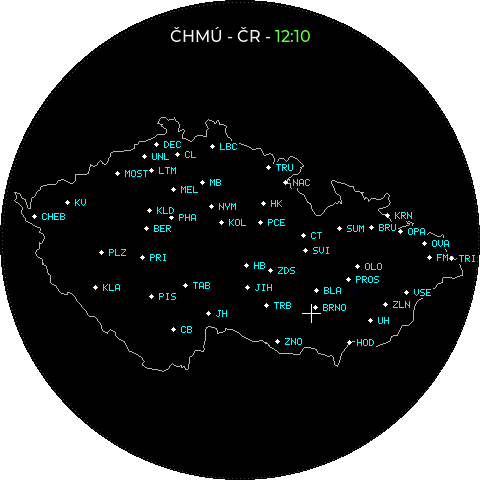
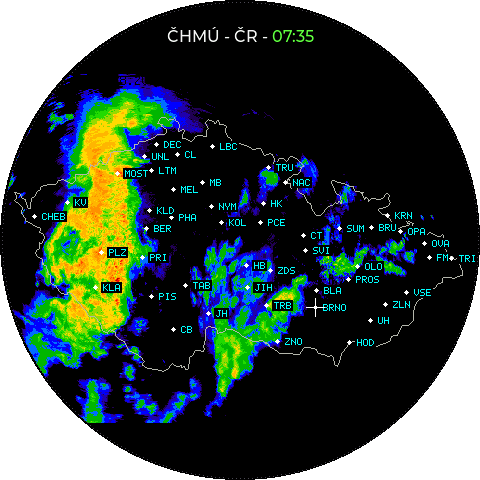
Show rainy radar in day and night galleries

diff --git a/docs/index.html b/docs/index.html
@@ -6,9 +6,9 @@
     <meta name="theme-color" content="#05090d">
     <meta name="description" content="Waveshare Hodiny – chytré hodiny s Open-Meteo, TMEP.cz, Home Assistantem a meteoradarem ČHMÚ pro kulatý dotykový displej.">
     <title>Waveshare Hodiny – Chytré hodiny podle vás</title>
-    <link rel="stylesheet" href="styles.css?v=4f3e89369941">
+    <link rel="stylesheet" href="styles.css?v=a297a80aeb8f">
     <script type="module" src="vendor/esp-web-tools/install-button.js"></script>
-    <script type="module" src="app.js?v=b3c39af86777"></script>
+    <script type="module" src="app.js?v=b482845fd5ca"></script>
   </head>
   <body>
     <header class="site-header">
@@ -95,11 +95,32 @@
             <figcaption>Digitální ciferník · denní režim</figcaption>
           </figure>
           <figure>
-            <button class="image-zoom" type="button" data-full="screenshots/dashboard-radar.png" aria-label="Zobrazit meteoradar ČHMÚ v plné velikosti">
-              <img src="screenshots/dashboard-radar.png" alt="Meteoradar ČHMÚ na displeji Waveshare Hodiny">
+            <button class="image-zoom" type="button" data-full="screenshots/dashboard-radar.png" aria-label="Zobrazit denní meteoradar ČHMÚ v plné velikosti">
+              <img src="screenshots/dashboard-radar.png" alt="Meteoradar ČHMÚ na displeji Waveshare Hodiny v denním režimu">
               <span>Zvětšit</span>
             </button>
-            <figcaption>Meteoradar ČHMÚ · celá Česká republika</figcaption>
+            <figcaption>Meteoradar ČHMÚ · denní režim</figcaption>
+          </figure>
+          <figure class="night-preview">
+            <button class="image-zoom" type="button" data-full="screenshots/dashboard-analog-night.png" aria-label="Zobrazit noční analogový ciferník v plné velikosti">
+              <img src="screenshots/dashboard-analog-night.png" alt="Analogový ciferník Waveshare Hodiny v červeném nočním režimu">
+              <span>Zvětšit</span>
+            </button>
+            <figcaption>Analogový ciferník · noční režim</figcaption>
+          </figure>
+          <figure class="night-preview">
+            <button class="image-zoom" type="button" data-full="screenshots/dashboard-night.png" aria-label="Zobrazit noční digitální ciferník v plné velikosti">
+              <img src="screenshots/dashboard-night.png" alt="Digitální ciferník Waveshare Hodiny v červeném nočním režimu">
+              <span>Zvětšit</span>
+            </button>
+            <figcaption>Digitální ciferník · noční režim</figcaption>
+          </figure>
+          <figure class="night-preview">
+            <button class="image-zoom" type="button" data-full="screenshots/dashboard-radar-night.png" aria-label="Zobrazit noční meteoradar ČHMÚ v plné velikosti">
+              <img src="screenshots/dashboard-radar-night.png" alt="Meteoradar ČHMÚ na displeji Waveshare Hodiny v červeném nočním režimu">
+              <span>Zvětšit</span>
+            </button>
+            <figcaption>Meteoradar ČHMÚ · noční režim</figcaption>
           </figure>
         </div>
       </section>

diff --git a/docs/app.js b/docs/app.js
@@ -33,9 +33,19 @@ const translations = {
   "Zobrazit denní digitální ciferník v plné velikosti": "Show the day digital clock full size",
   "Digitální ciferník Waveshare Hodiny v denním režimu": "Waveshare Hodiny digital clock in day mode",
   "Digitální ciferník · denní režim": "Digital clock · day mode",
-  "Zobrazit meteoradar ČHMÚ v plné velikosti": "Show the Czech precipitation radar full size",
+  "Zobrazit denní meteoradar ČHMÚ v plné velikosti": "Show the Czech precipitation radar in day mode full size",
   "Meteoradar ČHMÚ na displeji Waveshare Hodiny": "Czech precipitation radar on Waveshare Hodiny",
-  "Meteoradar ČHMÚ · celá Česká republika": "Czech precipitation radar · whole country",
+  "Meteoradar ČHMÚ na displeji Waveshare Hodiny v denním režimu": "Czech precipitation radar on Waveshare Hodiny in day mode",
+  "Meteoradar ČHMÚ · denní režim": "Czech precipitation radar · day mode",
+  "Zobrazit noční analogový ciferník v plné velikosti": "Show the night analog dial full size",
+  "Analogový ciferník Waveshare Hodiny v červeném nočním režimu": "Waveshare Hodiny analog dial in red night mode",
+  "Analogový ciferník · noční režim": "Analog dial · night mode",
+  "Zobrazit noční digitální ciferník v plné velikosti": "Show the night digital clock full size",
+  "Digitální ciferník Waveshare Hodiny v červeném nočním režimu": "Waveshare Hodiny digital clock in red night mode",
+  "Digitální ciferník · noční režim": "Digital clock · night mode",
+  "Zobrazit noční meteoradar ČHMÚ v plné velikosti": "Show the Czech precipitation radar in night mode full size",
+  "Meteoradar ČHMÚ na displeji Waveshare Hodiny v červeném nočním režimu": "Czech precipitation radar on Waveshare Hodiny in red night mode",
+  "Meteoradar ČHMÚ · noční režim": "Czech precipitation radar · night mode",
   "Potřebný hardware": "Required hardware", "Kde koupit podporovanou desku": "Where to buy the supported board",
   "Firmware je určený výhradně pro Waveshare ESP32-S3-Touch-LCD-2.1. Kliknutím na logo přejdete přímo k podporované desce.": "The firmware is designed exclusively for Waveshare ESP32-S3-Touch-LCD-2.1. Select a logo to open the supported board.",
   "Koupit podporovanou desku na Pájeníčko.cz": "Buy the supported board at Pájeníčko.cz",

diff --git a/docs/styles.css b/docs/styles.css
@@ -82,6 +82,8 @@ h2 { margin-bottom: 18px; font-size: clamp(2rem, 4vw, 3.6rem); line-height: 1.04
 .clock-gallery .image-zoom { min-height: 0; padding: 20px; aspect-ratio: 1; }
 .clock-gallery .image-zoom img { width: 100%; height: auto; aspect-ratio: 1; object-fit: contain; }
 .clock-gallery figcaption { padding: 14px 18px; color: var(--muted); font-size: .86rem; border-top: 1px solid var(--line); }
+.clock-gallery .night-preview { border-color: rgba(240,68,68,.25); box-shadow: inset 0 0 30px rgba(240,68,68,.035); }
+.clock-gallery .night-preview figcaption { color: #d9a0a0; border-top-color: rgba(240,68,68,.2); }
 .hardware-section { padding-bottom: 108px; }
 .hardware-panel { display: grid; gap: 30px; padding: 38px 40px; background: linear-gradient(145deg, rgba(17,29,38,.9), rgba(8,15,20,.9)); border: 1px solid var(--line); border-radius: var(--radius); }
 .hardware-panel h2 { margin-bottom: 14px; font-size: clamp(1.8rem, 3vw, 2.8rem); }
@@ -143,8 +145,6 @@ footer { border-top: 1px solid var(--line); color: #768792; font-size: .83rem; }
   .hero { width: min(100% - 40px, 1160px); padding-top: 56px; }
   .device-stage { min-height: 550px; max-width: 560px; width: 100%; margin: auto; }
   .feature-grid { grid-template-columns: repeat(2, 1fr); }
-  .clock-gallery { grid-template-columns: repeat(2, minmax(0, 1fr)); }
-  .clock-gallery figure:last-child { grid-column: 1 / -1; width: min(360px, 100%); justify-self: center; }
   .installer-layout { gap: 55px; }
 }
 
@@ -170,7 +170,6 @@ footer { border-top: 1px solid var(--line); color: #768792; font-size: .83rem; }
   .device-radar { top: auto; right: 2px; bottom: 0; }
   .device-night img { box-shadow: 0 16px 36px rgba(0,0,0,.7), 0 0 0 4px #111a20, 0 0 0 6px #2a363d, 0 0 20px rgba(240,68,68,.08); }
   .feature-grid, .showcase-grid, .clock-gallery { grid-template-columns: 1fr; }
-  .clock-gallery figure:last-child { grid-column: auto; width: 100%; }
   .hardware-section { padding-bottom: 76px; }
   .hardware-panel { padding: 28px 22px; }
   .retailer-logo { min-height: 92px; padding: 16px 20px; }
